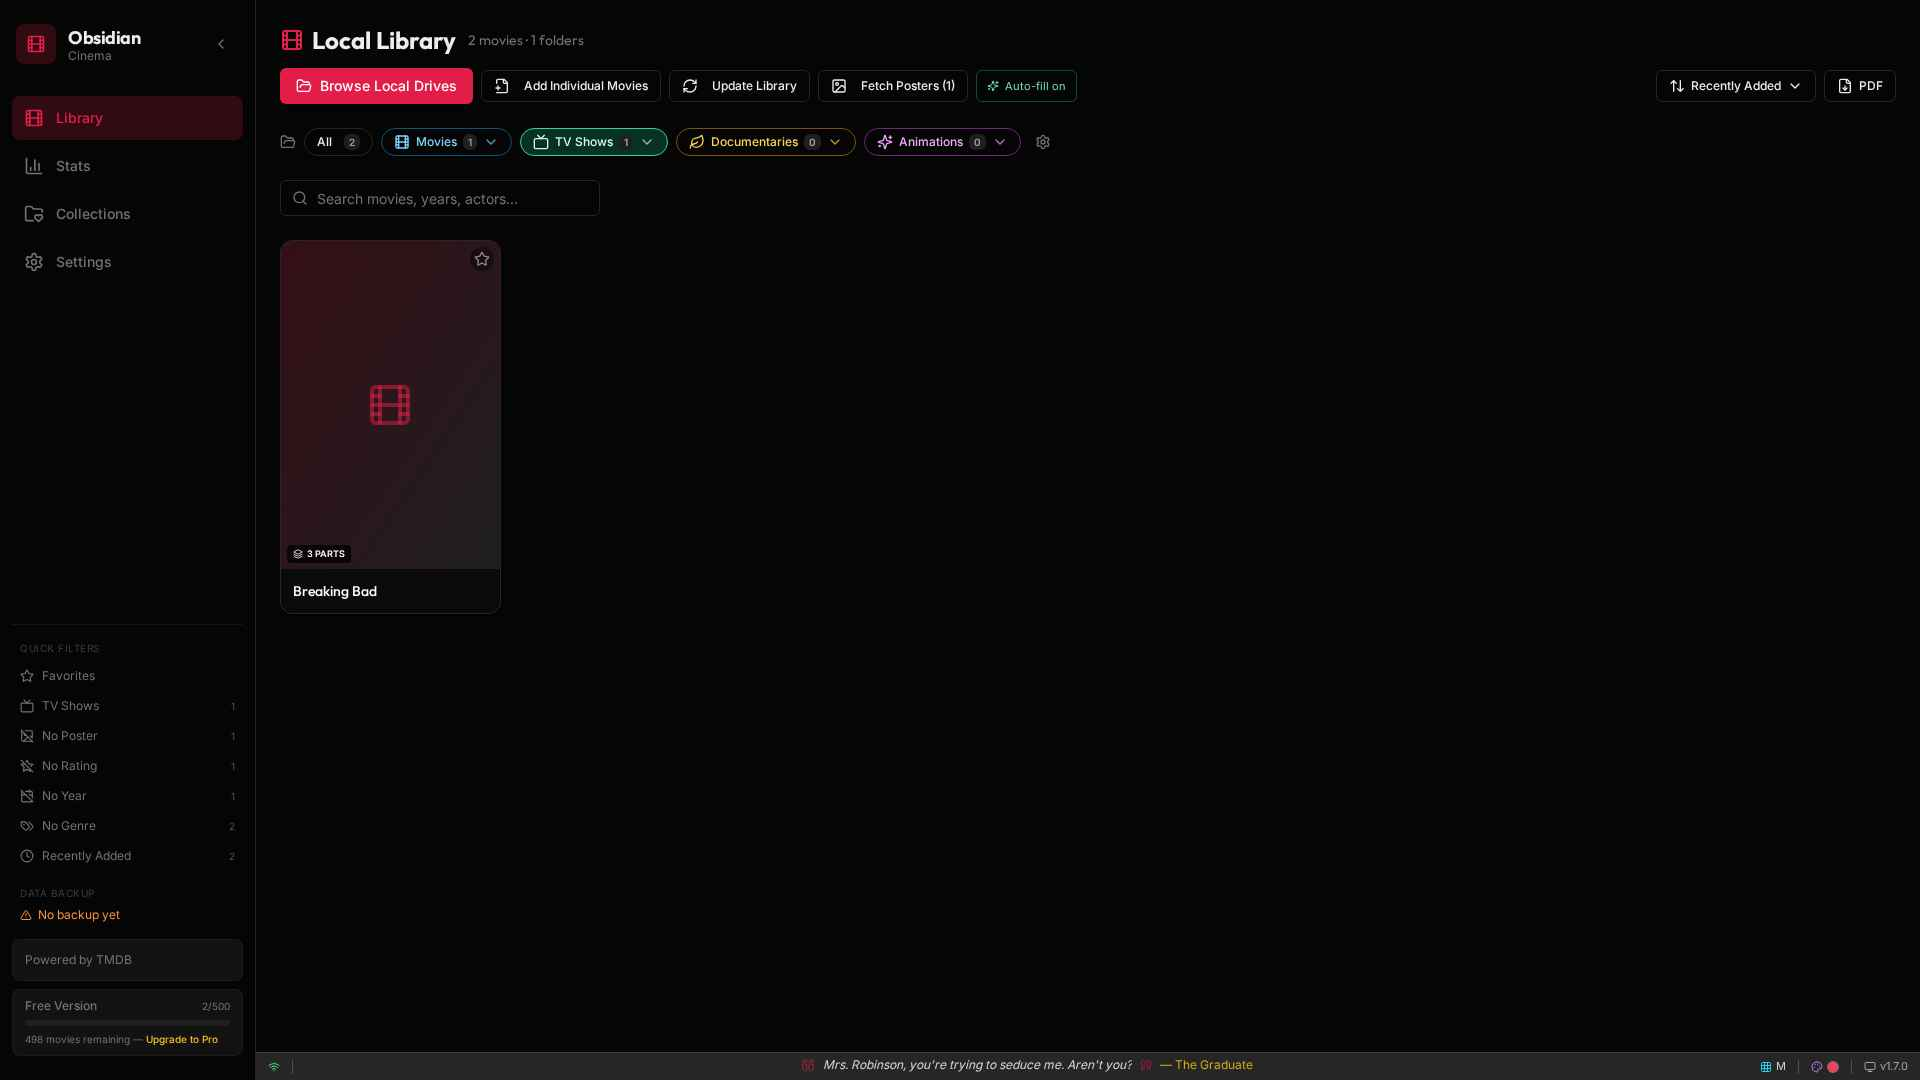
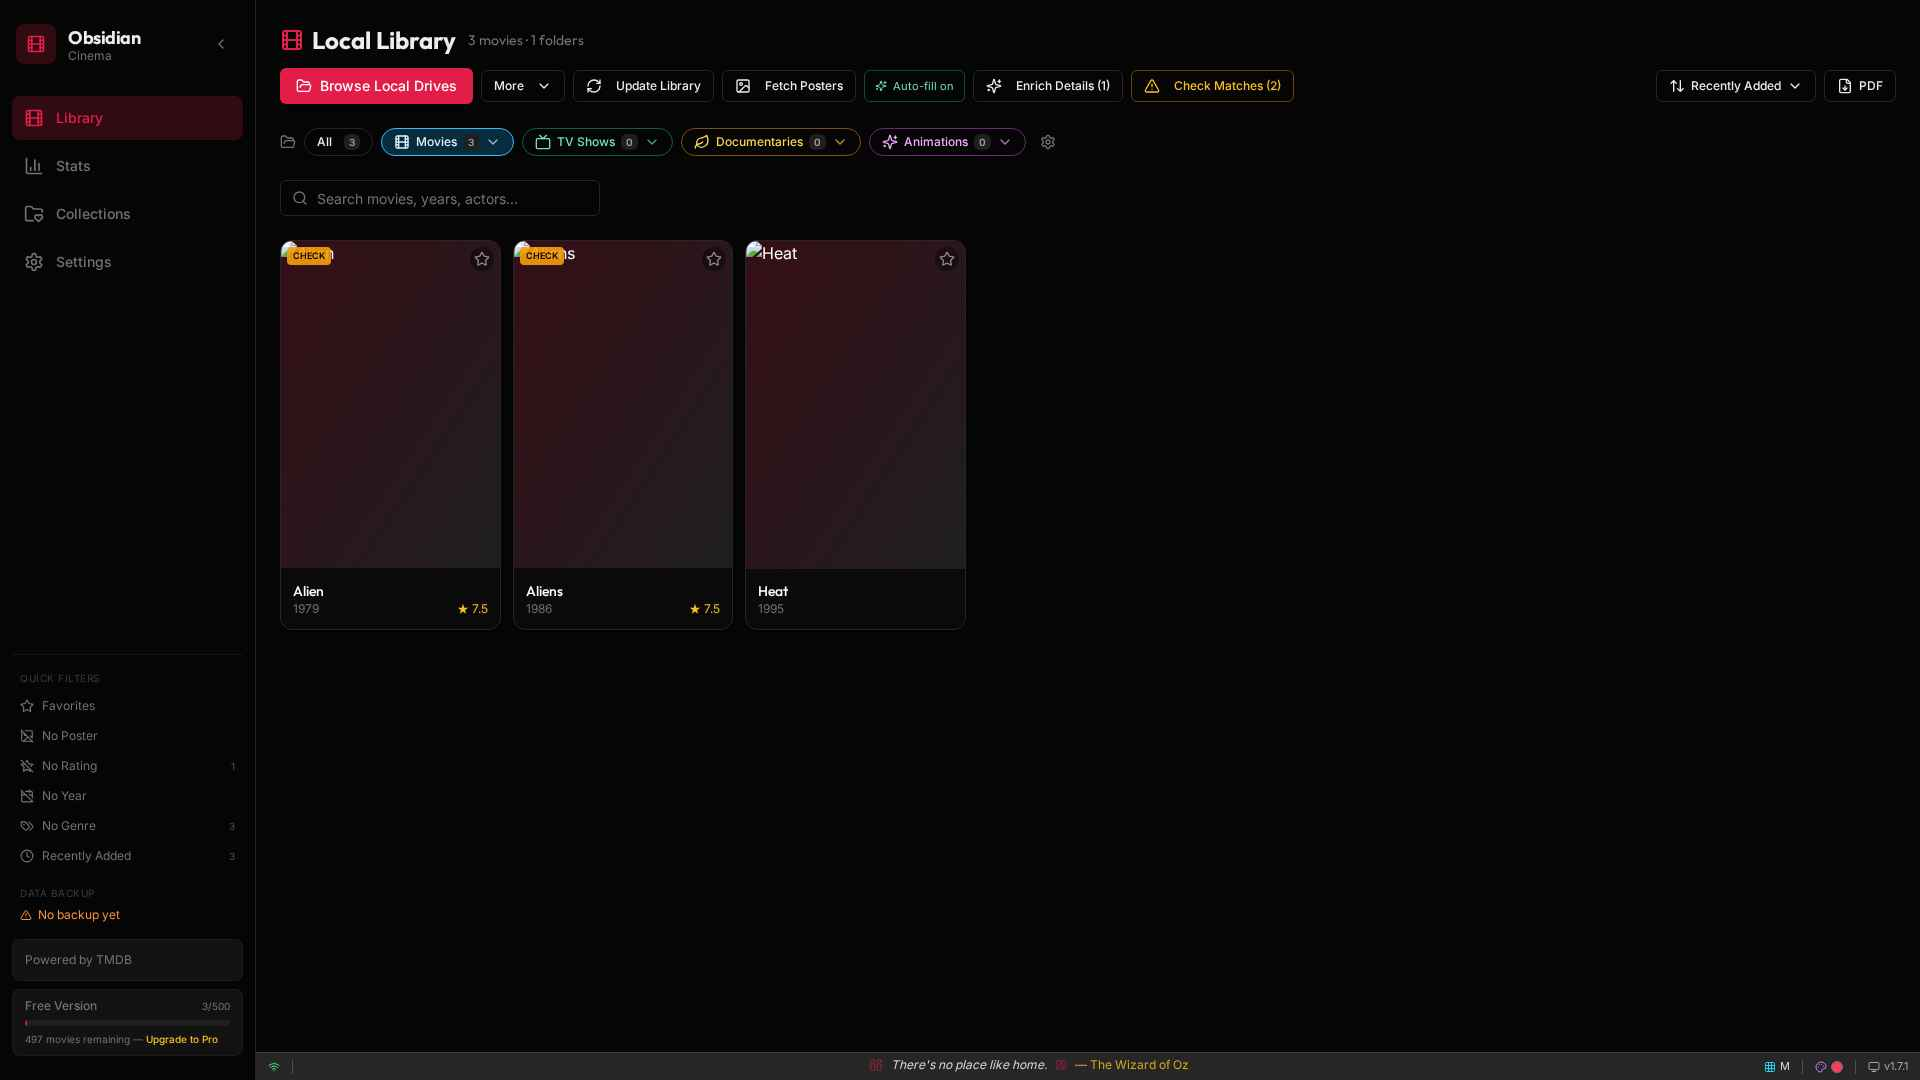
## Add Individual Movies Moved into a "More" Menu The library toolbar no longer has the "Add Individual Movies" button. A small **More ▾** menu now sits next to Browse Local Drives and holds **Add individual files**, with the hint "For files outside your library folders, e.g. one film in Downloads".
Choosing it works exactly as before: you pick the type, pick the files, and they're added and matched. I checked this end to end in the browser test version, with both TV and Movies picks. I also updated the older automated tests so they open the new menu first.

Next Action Items:
- **Drag and Drop Files**: Let me drag video files onto the library window to add them instantly
- **Rating Source Badge**: Show a small "IMDb via Wikidata" tag on ratings that didn't come from TMDB
- **Resume Next Episode**: Show "Continue with S01E03" on a show's card so you can pick up where you left off
- **Episode Watched Ticks**: Add checkmarks to watched episodes so each season shows how far you've got

Emergent-Commit-Key: d6f900fa807a24a1e6d3f87270255827a09000f62a4f82ef96143475857b555b

diff --git a/frontend/src/pages/LocalLibraryPage.jsx b/frontend/src/pages/LocalLibraryPage.jsx
@@ -1814,10 +1814,23 @@ export default function LocalLibraryPage() {
           <LocalDirectoryBrowser onMoviesFound={handleMoviesFound} />
           <ImportTypeDialog open={showFilesType} onOpenChange={setShowFilesType} onPick={pickIndividualFiles} />
           <FilmographyDialog person={person} movies={movies} onClose={() => setPerson(null)} onLeave={() => setSelectedMovie(null)} />
-          <Button variant="outline" size="sm" onClick={handleAddFiles} data-testid="add-files-btn" title="Add individual movie files">
-            <FilePlus2 className="w-4 h-4 mr-1.5" />
-            <span className="text-xs">Add Individual Movies</span>
-          </Button>
+          <DropdownMenu>
+            <DropdownMenuTrigger asChild>
+              <Button variant="outline" size="sm" data-testid="more-actions-btn" title="More ways to add titles">
+                <span className="text-xs">More</span>
+                <ChevronDown className="w-3.5 h-3.5 ml-1" />
+              </Button>
+            </DropdownMenuTrigger>
+            <DropdownMenuContent align="start" className="w-64">
+              <DropdownMenuItem onSelect={handleAddFiles} data-testid="add-files-btn" className="flex items-start gap-2 cursor-pointer">
+                <FilePlus2 className="w-4 h-4 mt-0.5 shrink-0" />
+                <div>
+                  <p className="text-sm">Add individual files</p>
+                  <p className="text-[11px] text-muted-foreground">For files outside your library folders, e.g. one film in Downloads</p>
+                </div>
+              </DropdownMenuItem>
+            </DropdownMenuContent>
+          </DropdownMenu>
           {directories.length > 0 && (
             <Button variant="outline" size="sm" onClick={rescanAllDirectories} disabled={isRescanning} data-testid="update-library-btn" title="Rescan all directories for changes">
               <RefreshCw className={`w-4 h-4 mr-1.5 ${isRescanning ? 'animate-spin' : ''}`} />

diff --git a/tests/test_iter37_import_type.py b/tests/test_iter37_import_type.py
@@ -199,7 +199,7 @@ async def run_add_files(skip_tip=True, typ="tv", lib=None, dirs=("M:\\Movies",),
     lib = lib or [HEAT]
     ctx, p, mock, errs = await open4(lib, base_scan(lib), auto="on", dialog=pick or PICK, skip_tip=skip_tip, dirs=dirs, cats=cats)
     try:
-        await p.locator('[data-testid="add-files-btn"]').click()
+        await p.locator('[data-testid="more-actions-btn"]').click(); await p.wait_for_timeout(300); await p.locator('[data-testid="add-files-btn"]').click()
         await p.wait_for_timeout(500)
         if not skip_tip:
             print("naming tip shown:", await p.locator('[data-testid="confirm-naming-tip-files-btn"]').count())
@@ -211,7 +211,7 @@ async def run_add_files(skip_tip=True, typ="tv", lib=None, dirs=("M:\\Movies",),
         await p.locator('[data-testid="files-type-cancel"]').click()
         await p.wait_for_timeout(400)
         print("after cancel: dialog", await d.count(), "file dialog calls:", await p.evaluate("() => window.__dlgCalls"))
-        await p.locator('[data-testid="add-files-btn"]').click()
+        await p.locator('[data-testid="more-actions-btn"]').click(); await p.wait_for_timeout(300); await p.locator('[data-testid="add-files-btn"]').click()
         await p.wait_for_timeout(500)
         if not skip_tip:
             if await p.locator('[data-testid="confirm-naming-tip-files-btn"]').count():

diff --git a/tests/test_iter39_file_dirs.py b/tests/test_iter39_file_dirs.py
@@ -32,7 +32,7 @@ async def open5(lib, scan, dialog, dirs=("M:\\Movies",), cats=None, auto="off"):
 
 
 async def add_files(p, typ, wait=3000):
-    await p.locator('[data-testid="add-files-btn"]').click()
+    await p.locator('[data-testid="more-actions-btn"]').click(); await p.wait_for_timeout(300); await p.locator('[data-testid="add-files-btn"]').click()
     await p.wait_for_timeout(500)
     await p.locator(f'[data-testid="files-type-{typ}"]').click()
     await p.locator('[data-testid="files-type-continue"]').click()

diff --git a/memory/PRD.md b/memory/PRD.md
@@ -118,3 +118,4 @@ Build "Obsidian Cinema"—an installable Windows desktop app (Electron) that sca
 - 1.7.1: removed 'Favourite Actor-Director Pairs' list from Director Insights (3 lists remain, 3-column grid); marketing text updated.
 - 1.7.1: Library detail window - cast members and 'Directed by' names are clickable and open the same FilmographyDialog as Stats (onLeave closes the detail when navigating). Tested iteration_42 + re-run (all pass).
 - 1.7.1: TV Shows quick filter removed. Recently Added = newest first. Fix missing info (lib/fixMissing.js): button on No Rating/No Year/No Genre filters + background batches (auto-fill on, 25s, 100 titles, 30-day recheck via gap_checked_at). Order: TMDB refresh/match (never overwrites present fields; 0 rating = missing) -> Wikidata (SPARQL by P345/P4947/P4983, title search with year, label similarity; review scores IMDb > Metacritic > RT, latest) -> local (file/folder year, folder-type genre). Year mismatches (single files) persisted in localStorage obsidian_cinema_year_mismatches; YearMismatchDialog renames only the year via electron fs:renameFile (never overwrites/deletes). Rating 0 hidden on cards. Tested iteration_43 + re-run; real Wikidata verified (Heat 8.3, Matrix 8.7).
+- 1.7.1: 'Add Individual Movies' toolbar button moved into a 'More' dropdown (more-actions-btn > add-files-btn 'Add individual files'). Tests updated.
